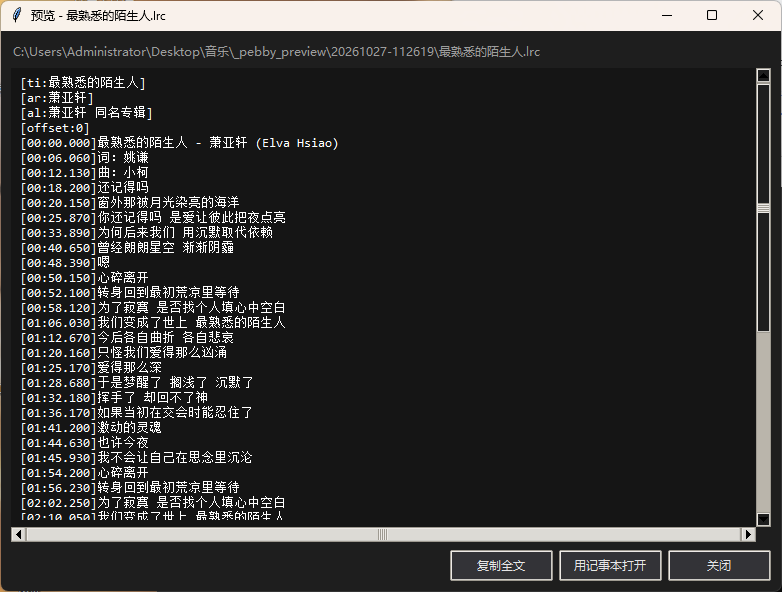
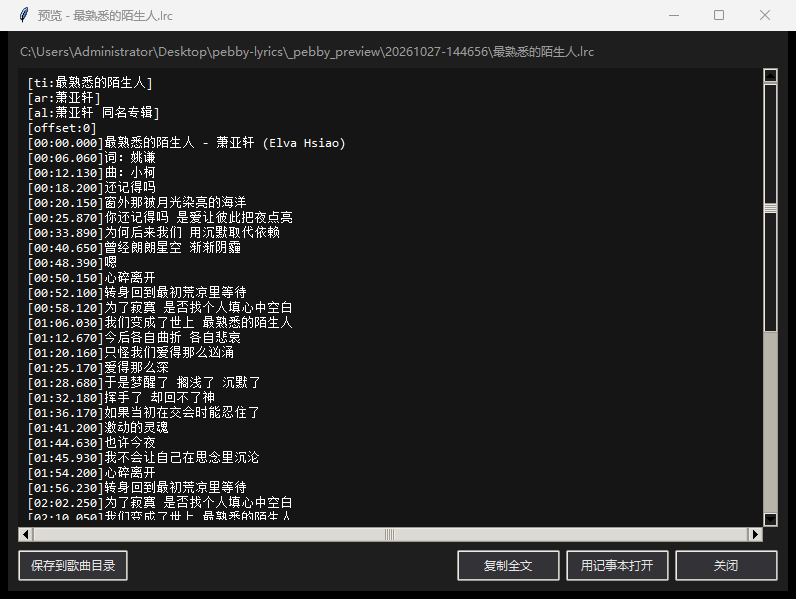
标题清洗与文件名回退、预览结果可保存（v1.9.0）
1) 搜不到歌的根因是标签歌名带曲目号（如“06.心雨”），搜索和歌名比对都按原样
   进行，QQ/LRCLIB 返回的“心雨”会被判成歌名不一致。现在查询和比对都先过
   clean_title()：去掉 06. / 01 - / 03、 这类前缀；7 Rings、2002年的第一场雪
   这种本身带数字的歌名不受影响。

2) 标签实在对不上（如“Track 01”）时，在没有网络错误的前提下用文件名再试一次，
   日志注明“用文件名…重试后匹配”，最多多一次请求。

3) 预览查看器新增“保存到歌曲目录”：确认后把预览文件原样复制到对应歌曲同目录，
   已存在时先确认覆盖；保存不计入“成功”统计，只在日志里记一行。

4) 相同警告只打印一次，避免 QQ 2001 / LRCLIB 503 这类上游错误刷屏。

5) 文档补充“匹配规则”章节，更新预览查看器截图。

Changed region(s): [[0.0, 0.0, 1.0, 1.0], [0.89, 0.0, 0.9207, 0.0608]]

diff --git a/prepare_lrc.py b/prepare_lrc.py
@@ -12,7 +12,7 @@ import base64
 from functools import lru_cache
 import html
 from collections import Counter
-from dataclasses import dataclass
+from dataclasses import dataclass, replace
 from datetime import datetime
 import json
 import math
@@ -88,6 +88,18 @@ def canonical(text):
     """比较时归一简繁/全半角/空白；保留 live/remix 等版本信息。"""
     text = chinese_converter().convert(text)
     return re.sub(r"\s+", "", unicodedata.normalize("NFKC", text).casefold())
+
+
+# 标签里常见“06.心雨”“01 - 歌名”“03、歌名”这类曲目号前缀；只在后面跟着
+# 分隔符时才去掉，避免把 “7 Rings” 这种真歌名截断。
+TRACK_NUMBER_PREFIX = re.compile(r"^\s*\d{1,3}\s*[.\-、_]\s*")
+
+
+def clean_title(text):
+    """去掉曲目号前缀，供搜索和歌名比较使用。"""
+    original = str(text or "").strip()
+    cleaned = TRACK_NUMBER_PREFIX.sub("", original).strip()
+    return cleaned or original
 
 
 def text_form(lrc):
@@ -200,7 +212,7 @@ def candidate_info(record, track, duration_tolerance=DURATION_TOLERANCE):
     if synced is not None and not isinstance(synced, str):
         raise ValueError("同步歌词字段无效")
     reasons = []
-    if canonical(record["trackName"]) != canonical(track.title):
+    if canonical(clean_title(record["trackName"])) != canonical(clean_title(track.title)):
         reasons.append("歌名不一致（保留版本后缀）")
     if canonical(record["artistName"]) != canonical(track.artist):
         reasons.append("歌手不一致")
@@ -311,7 +323,7 @@ def qq_search_smartbox(query, timeout):
 
 
 def qq_search(track, timeout):
-    query = chinese_converter().convert(f"{track.artist} {track.title}")
+    query = chinese_converter().convert(f"{track.artist} {clean_title(track.title)}")
     errors = []
     try:
         records = qq_search_musicu(query, timeout)
@@ -462,7 +474,7 @@ def find_lyrics(track, timeout, source="auto", prefer="simplified",
         exact_preferred = False
         if track.album:
             try:
-                exact = fetch_json("/get", {"track_name": track.title, "artist_name": track.artist,
+                exact = fetch_json("/get", {"track_name": clean_title(track.title), "artist_name": track.artist,
                                    "album_name": track.album, "duration": round(track.duration)}, timeout)
                 if exact is not None:
                     add_safely(exact, "lrclib-get")
@@ -473,7 +485,7 @@ def find_lyrics(track, timeout, source="auto", prefer="simplified",
                 details["warnings"].append(f"LRCLIB 精确查询失败，尝试搜索: {exc}")
         if not exact_preferred:
             try:
-                records = fetch_json("/search", {"track_name": track.title, "artist_name": track.artist}, timeout)
+                records = fetch_json("/search", {"track_name": clean_title(track.title), "artist_name": track.artist}, timeout)
                 if not isinstance(records, list):
                     raise ValueError("返回的不是候选列表")
                 for record in records:
@@ -520,6 +532,23 @@ def find_lyrics(track, timeout, source="auto", prefer="simplified",
 def existing_lrc(audio_path):
     name = audio_path.with_suffix(".lrc").name.casefold()
     return next((item for item in audio_path.parent.iterdir() if item.name.casefold() == name), None)
+
+
+def filename_title(path):
+    """从文件名推歌名：去掉曲目号；“歌手 - 歌名”取后半段。"""
+    stem = clean_title(path.stem)
+    parts = re.split(r"\s+[-–—]\s+", stem, maxsplit=1)
+    if len(parts) == 2 and all(part.strip() for part in parts):
+        return parts[1].strip()
+    return stem
+
+
+def fallback_search_title(path, track):
+    """标签歌名没匹配上时，用文件名重试的候选标题；和原地址没有区别时返回空串。"""
+    candidate = filename_title(path)
+    if candidate and canonical(clean_title(candidate)) != canonical(clean_title(track.title)):
+        return candidate
+    return ""
 
 
 INVALID_NAME_CHARS = re.compile(r'[<>:"/\\|?*\x00-\x1F]')
@@ -756,6 +785,18 @@ def process_file(path, encoding, dry_run, timeout, source="auto", prefer="simpli
             return result
         status, message, text, details = find_lyrics(track, timeout, source, prefer,
                                                      duration_tolerance, end_time_tolerance)
+        if text is None and status in {"no_match", "no_synced", "invalid_lrc"}:
+            # 标签歌名可能带曲目号或写错，用文件名再试一次（只多一次请求）
+            fallback = fallback_search_title(path, track)
+            if fallback:
+                retry_status, retry_message, retry_text, retry_details = find_lyrics(
+                    replace(track, title=fallback), timeout, source, prefer,
+                    duration_tolerance, end_time_tolerance)
+                result["filename_retry"] = {"title": fallback, "status": retry_status}
+                if retry_text is not None:
+                    status, text = retry_status, retry_text
+                    message = f"{retry_message}（用文件名“{fallback}”重试后匹配）"
+                    details = retry_details
         result.update(details, status=status, message=message, prefer=prefer)
         if text is None:
             return result

diff --git a/lrc_gui.py b/lrc_gui.py
@@ -228,13 +228,16 @@ class TextViewer(tk.Toplevel):
     这里先把内容直接显示出来，能不能调外部程序只是附加能力。
     """
 
-    def __init__(self, master, title: str, content: str, path: Path | None = None):
+    def __init__(self, master, title: str, content: str, path: Path | None = None,
+                 save_path: Path | None = None, on_saved=None):
         super().__init__(master)
         self.title(title)
         self.configure(bg=BG)
         self.geometry("780x560")
         self.minsize(520, 360)
         self.path = path
+        self.save_path = save_path
+        self.on_saved = on_saved
 
         wrap = ttk.Frame(self, padding=10)
         wrap.pack(fill="both", expand=True)
@@ -263,6 +266,9 @@ class TextViewer(tk.Toplevel):
                        command=self._open_external).pack(side="right", padx=(0, 6))
         ttk.Button(bar, text="复制全文",
                    command=lambda: self._copy(content)).pack(side="right", padx=(0, 6))
+        if save_path is not None:
+            self.save_button = ttk.Button(bar, text="保存到歌曲目录", command=self._save)
+            self.save_button.pack(side="left")
 
     def _copy(self, content: str) -> None:
         self.clipboard_clear()
@@ -271,6 +277,23 @@ class TextViewer(tk.Toplevel):
     def _open_external(self) -> None:
         if self.path is not None and not open_with_notepad(self.path):
             messagebox.showerror(APP_TITLE, f"系统不允许启动记事本，可以直接看这个窗口里的内容。\n{self.path}")
+
+    def _save(self) -> None:
+        """把预览内容原样写到歌曲目录；不计入“成功”统计。"""
+        if self.path is None or self.save_path is None:
+            return
+        target = self.save_path
+        if target.exists() and not messagebox.askyesno(
+                APP_TITLE, f"{target.name} 已存在，覆盖？", parent=self):
+            return
+        try:
+            shutil.copyfile(self.path, target)
+        except OSError as exc:
+            messagebox.showerror(APP_TITLE, f"保存失败：{exc}", parent=self)
+            return
+        self.save_button.configure(state="disabled", text="已保存")
+        if self.on_saved is not None:
+            self.on_saved(target)
 
 
 class LrcApp:
@@ -311,6 +334,8 @@ class LrcApp:
         self._link_seq = 0
         self.preview_dir: Path | None = None
         self._preview_dirs: list[Path] = []
+        self._preview_targets: dict[str, Path] = {}
+        self._seen_warnings: set[str] = set()
         self.disclaimer_accepted = False
 
         self._build_style()
@@ -658,7 +683,13 @@ class LrcApp:
         except OSError as exc:
             messagebox.showerror(APP_TITLE, f"无法读取预览文件：{exc}")
             return
-        TextViewer(self.root, f"预览 - {target.name}", content, target)
+        # 预览结果可以顺手保存到歌曲目录；已生成的文件不需要这个按钮
+        save_path = self._preview_targets.get(str(target))
+        TextViewer(self.root, f"预览 - {target.name}", content, target,
+                   save_path=save_path, on_saved=self._on_preview_saved)
+
+    def _on_preview_saved(self, target: Path) -> None:
+        self._log("info", f"已保存到歌曲目录：{target}（不计入成功统计）")
 
     def _copy_path(self, path) -> None:
         """目录链接不做“打开”，只把路径复制到剪贴板。"""
@@ -739,6 +770,8 @@ class LrcApp:
         self._clear_log()
         self.results = []
         self.summary = Counter()
+        self._preview_targets.clear()
+        self._seen_warnings.clear()
         self.total = 0
         self.done = 0
         self.scan_errors = []
@@ -975,6 +1008,8 @@ class LrcApp:
             self._log("success", f"{name} 预览完成（未写文件）")
             self._log_result_detail(result)
             if result.get("preview_path"):
+                if result.get("lrc"):
+                    self._preview_targets[str(result["preview_path"])] = Path(result["lrc"])
                 self._log_link(
                     f"  预览文件：{Path(result['preview_path']).name}（点击预览）",
                     result["preview_path"], self._open_preview_file)
@@ -998,6 +1033,9 @@ class LrcApp:
                 f"专辑匹配={'是' if selected.get('album_match') else '否'}  "
                 f"{result.get('line_count', 0)} 行")
         for warning in result.get("warnings", []):
+            if warning in self._seen_warnings:
+                continue
+            self._seen_warnings.add(warning)
             self._log("warn", f"  警告：{warning}")
 
     def _on_done(self, results: list[dict], errors: list[str], cancelled: bool) -> None:

diff --git a/tests/test_titles.py b/tests/test_titles.py
@@ -1,0 +1,58 @@
+# -*- coding: utf-8 -*-
+"""标题清洗与文件名回退：标签里带曲目号、或标签写错时仍能找到歌。"""
+
+import unittest
+from pathlib import Path
+
+import prepare_lrc as core
+
+
+def make_track(title, artist="萧亚轩"):
+    return core.Track(Path("x.mp3"), title, artist, "", 200.0, "tags", 0)
+
+
+class CleanTitle(unittest.TestCase):
+    def test_strips_track_number_prefix(self):
+        self.assertEqual(core.clean_title("06.心雨"), "心雨")
+        self.assertEqual(core.clean_title("01 - 晴天"), "晴天")
+        self.assertEqual(core.clean_title("03、七里香"), "七里香")
+        self.assertEqual(core.clean_title("12_稻香"), "稻香")
+
+    def test_keeps_titles_that_start_with_digits(self):
+        self.assertEqual(core.clean_title("7 Rings"), "7 Rings")
+        self.assertEqual(core.clean_title("2002年的第一场雪"), "2002年的第一场雪")
+        self.assertEqual(core.clean_title("1984"), "1984")
+
+    def test_empty_and_plain(self):
+        self.assertEqual(core.clean_title(""), "")
+        self.assertEqual(core.clean_title("心雨"), "心雨")
+
+
+class FilenameTitle(unittest.TestCase):
+    def test_track_number(self):
+        self.assertEqual(core.filename_title(Path("06.心雨.mp3")), "心雨")
+
+    def test_artist_dash_title(self):
+        self.assertEqual(core.filename_title(Path("萧亚轩 - 最熟悉的陌生人.mp3")),
+                         "最熟悉的陌生人")
+
+    def test_plain_name(self):
+        self.assertEqual(core.filename_title(Path("最熟悉的陌生人.mp3")), "最熟悉的陌生人")
+
+
+class FallbackTitle(unittest.TestCase):
+    def test_returns_filename_when_tag_differs(self):
+        track = make_track("Track 01")
+        self.assertEqual(core.fallback_search_title(Path("06.心雨.mp3"), track), "心雨")
+
+    def test_empty_when_same_after_cleaning(self):
+        track = make_track("06.心雨")
+        self.assertEqual(core.fallback_search_title(Path("心雨.mp3"), track), "")
+
+    def test_empty_when_tag_matches_filename(self):
+        track = make_track("心雨")
+        self.assertEqual(core.fallback_search_title(Path("心雨.mp3"), track), "")
+
+
+if __name__ == "__main__":
+    unittest.main()

diff --git a/version.py b/version.py
@@ -5,4 +5,4 @@ GUI 标题、`--version`、更新检查和打包脚本都从这里读，
 避免界面、exe 名称和 GitHub tag 三处写死后互相对不上。
 """
 
-__version__ = "1.8.1"
+__version__ = "1.9.0"

diff --git a/README.md b/README.md
@@ -75,6 +75,7 @@ cd pebby-lyrics
 
 - 预览目录**优先放在 exe 旁边**，避免临时文件混进音乐库；exe 目录不可写时再退到音乐目录下
 - 日志里每条结果后面有可点击的“预览文件：xxx.lrc（点击预览）”，点开是应用内查看器
+- 查看器左下角有 **“保存到歌曲目录”**：觉得这份歌词可以，直接落盘到对应歌曲同目录（覆盖前会确认）；它只是保存，不计入“成功”统计
 - 开始运行时会打印一行“预览文件会写到 …（点击复制路径）”，点一下把路径复制到剪贴板
 - **关闭程序时自动删除本次预览目录**（异常退出留下的可以手动删）
 
@@ -134,6 +135,13 @@ cd pebby-lyrics
 | `--version` | | 打印版本 |
 
 `python lrc_gui.py --version` / `--check-update` 可在源码模式查版本、查更新；打包后的 EXE 没有控制台，这两个参数以消息框显示。
+
+## 匹配规则
+
+歌名以**标签**为准，但会先做两步清洗，避免因为命名习惯漏掉歌词：
+
+1. 去掉标签里的曲目号前缀：`06.心雨`、`01 - 晴天`、`03、七里香` 都按 `心雨`、`晴天`、`七里香` 搜索和比对；`7 Rings`、`2002年的第一场雪` 这类本身带数字的歌名不受影响。
+2. 标签实在对不上（比如标题写成 `Track 01`）时，会在**没有网络错误**的前提下用文件名再试一次，日志里会注明“用文件名…重试后匹配”，最多多一次请求。
 
 ## 更新检查与隐私
 

diff --git a/CHANGELOG.md b/CHANGELOG.md
@@ -2,6 +2,13 @@
 
 日期以开题为准，版本号对应 GitHub Release 的 tag。
 
+## v1.9.0
+
+- 搜索与歌名比对前先去掉标签里的曲目号前缀（`06.心雨` → `心雨`），修掉“标签带编号就搜不到”的问题
+- 标签对不上时用文件名再试一次（仅在无网络错误时，最多多一次请求），日志会注明重试来源
+- 预览查看器新增“保存到歌曲目录”，确认后直接写入歌曲同目录，不计入成功统计
+- 重复的相同警告只打印一次，避免刷屏
+
 ## v1.8.1
 
 - 免责声明精简为三句：个人学习与自用、歌词版权归原权利人、请勿商业传播（去掉冗长的解释与折行）
